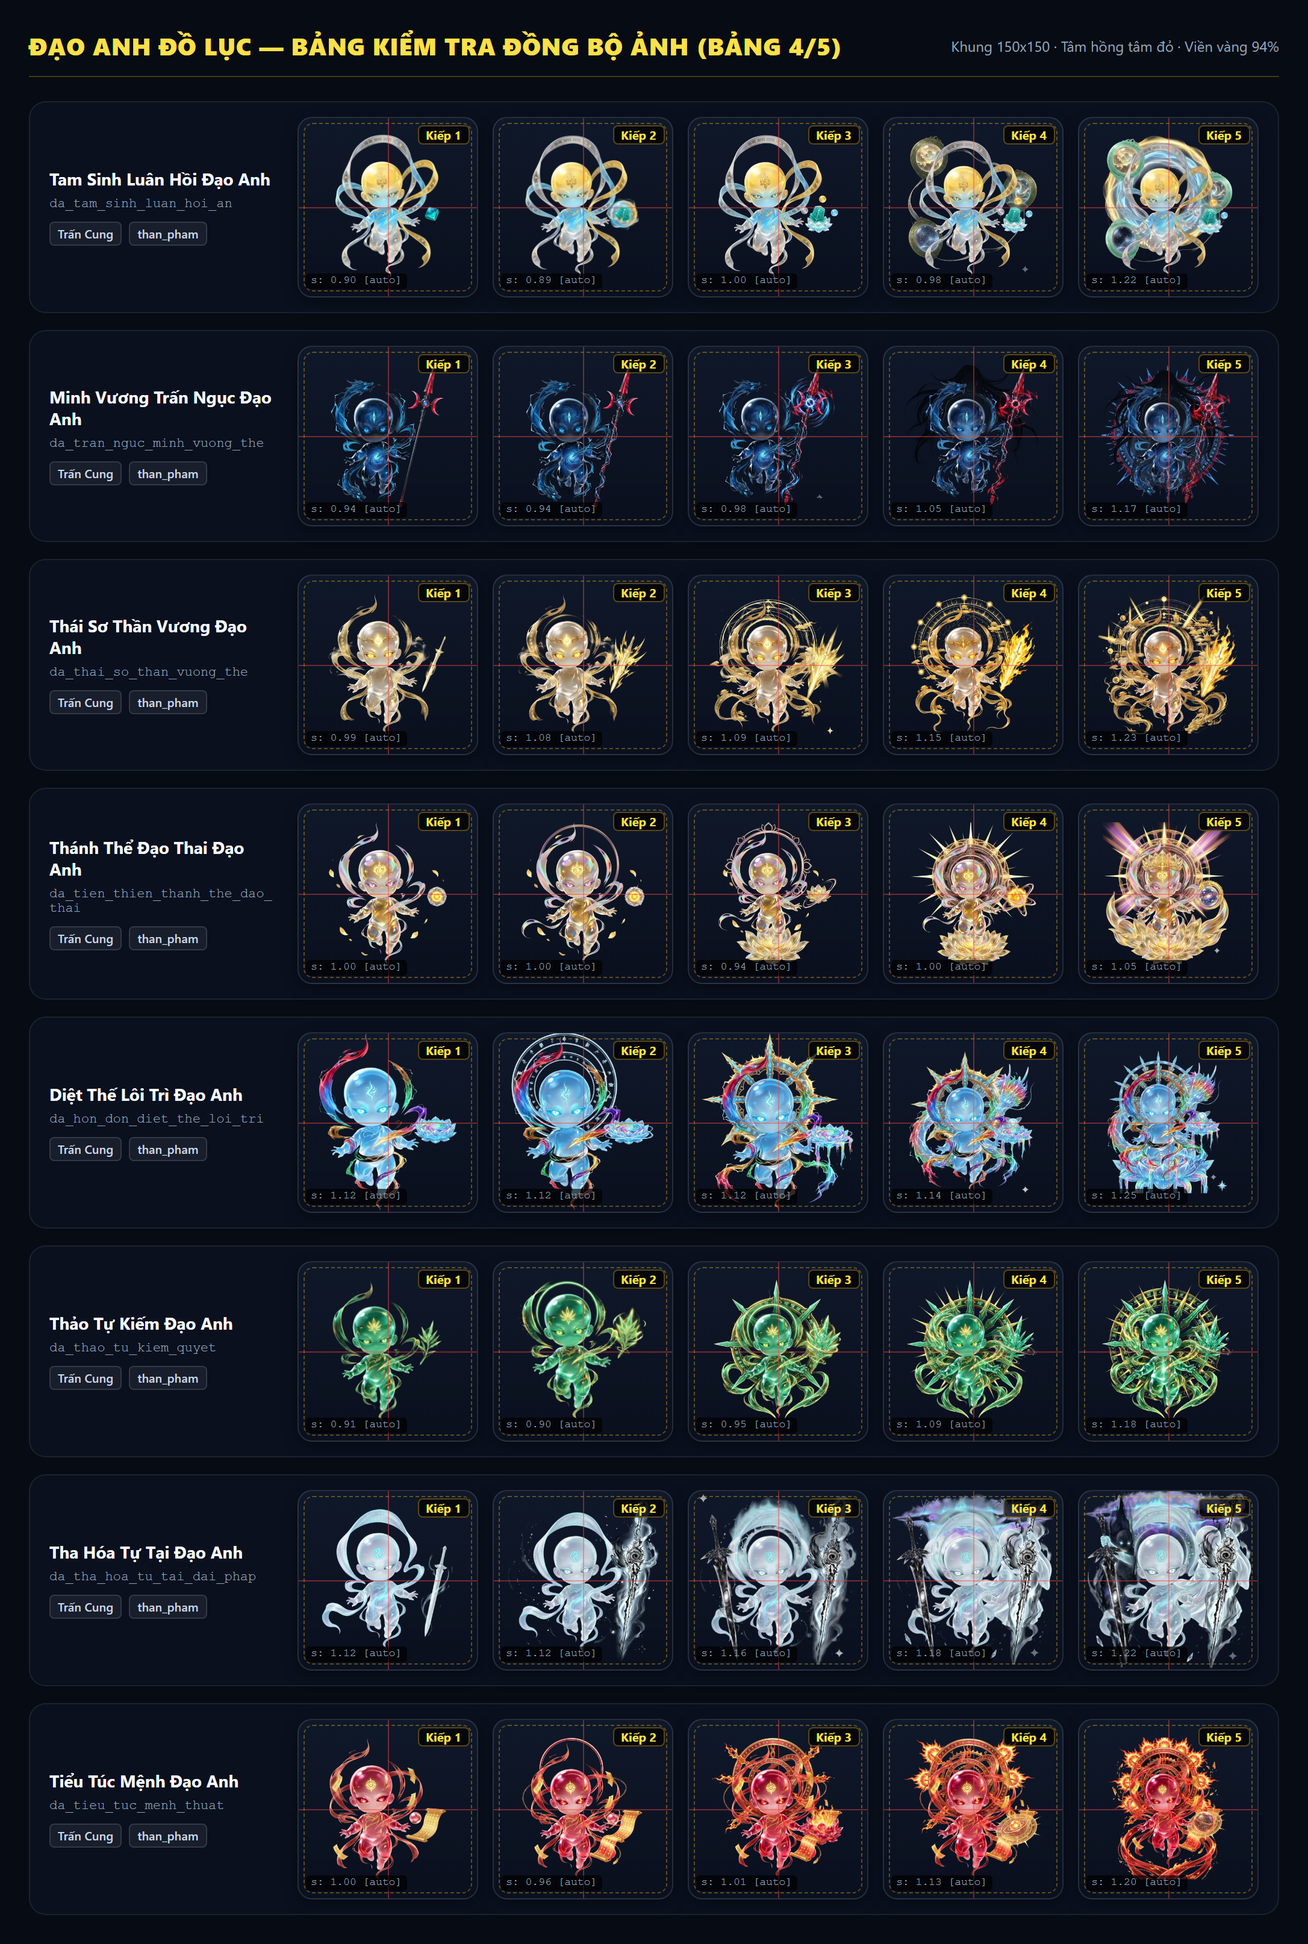
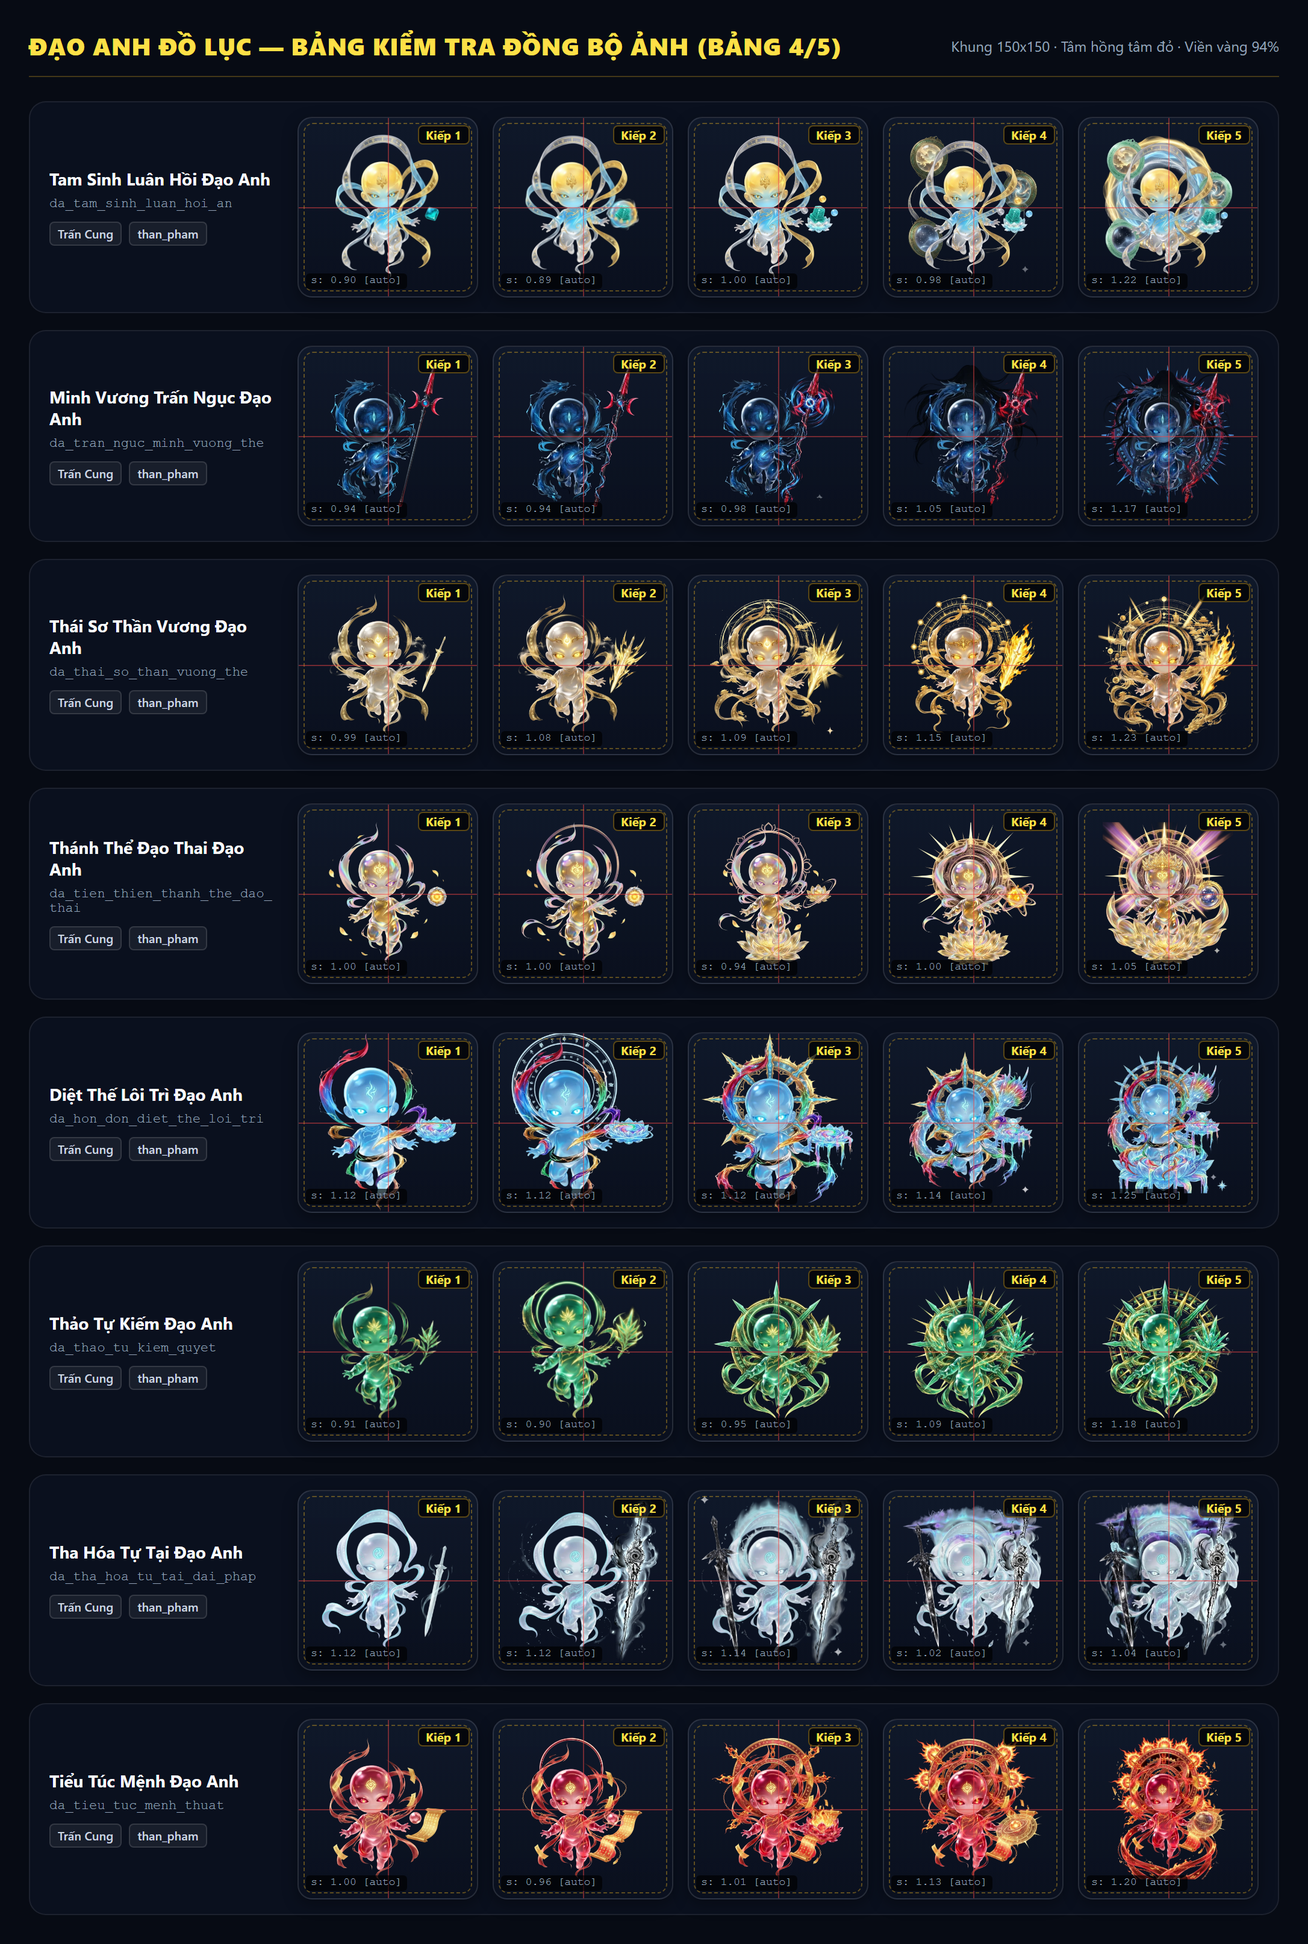
fix(cultivation): replace Khoi Nguyen Thoi Khong K4-K5 assets and finalize sizing for Tam Thu Dao, Toi Cao Thien Menh, Tha Hoa Tu Tai
- Replace Khoi Nguyen Thoi Khong K4-K5 across PNG, WebP full, and WebP thumb with seamless transparent cutouts
- Recompute BBox in daoAnhBBox.generated.js
- Tune Tam Thu Dao K5 scale to 1.02 to avoid flame aura overflow and match K4
- Tune Toi Cao Thien Menh K2 (s=1.05, dy=3%) to prevent top aura clipping
- Tune Tha Hoa Tu Tai K4 (1.02) & K5 (1.04) to prevent weapon clipping
- Balance Khoi Nguyen Thoi Khong K4-K5 scale (1.05) with K1-K3
- Regenerate contact sheets and update test assertions

Changed region(s): [[0.8329, 0.7435, 0.9563, 0.8674], [0.6786, 0.7435, 0.802, 0.8674], [0.5244, 0.7745, 0.6478, 0.8674]]

diff --git a/src/lib/daoAnhData.js b/src/lib/daoAnhData.js
@@ -2390,13 +2390,17 @@ export const DAO_ANH_CORE_TUNE_OVERRIDES = {
   da_cam_ky_cuc_dao:          { 1: 1.18, 2: 1.18, 3: 1.18, 4: 1.56, 5: 1.48 },
   cam_ky_cuc_dao:             { 1: 1.18, 2: 1.18, 3: 1.18, 4: 1.56, 5: 1.48 },
 
-  // Tối Cao Thiên Mệnh: Cột hào quang và kiếm trận vàng xòe cao; nâng để đầu/thân cân bằng
-  da_toi_cao_thien_menh:      { 1: 1.15, 2: 1.15, 3: 1.18, 4: 1.35, 5: 1.35 },
-  toi_cao_thien_menh:         { 1: 1.15, 2: 1.15, 3: 1.18, 4: 1.35, 5: 1.35 },
+  // Tối Cao Thiên Mệnh: Cột hào quang và kiếm trận vàng xòe cao; K2 hạ nhẹ và dịch dy=3% để chóp không bị cắt
+  da_toi_cao_thien_menh:      { 1: 1.15, 2: { scale: 1.05, dy: 3 }, 3: 1.18, 4: 1.35, 5: 1.35 },
+  toi_cao_thien_menh:         { 1: 1.15, 2: { scale: 1.05, dy: 3 }, 3: 1.18, 4: 1.35, 5: 1.35 },
 
   // Thượng Thương Hắc Huyết: Cánh máu và kiếm huyết rực cháy bao quanh; nâng K3-K5 để nhân vật oai vệ
   da_thuong_thuong_hac_huyet: { 1: 1.18, 2: 1.15, 3: 1.25, 4: 1.35, 5: 1.40 },
   thuong_thuong_hac_huyet:    { 1: 1.18, 2: 1.15, 3: 1.25, 4: 1.35, 5: 1.40 },
+
+  // Khởi Nguyên Thời Không: Cân bằng kích thước đầu và thân K4-K5 đồng đều với K1-K3 sau khi thay ảnh mới
+  da_khoi_nguyen_thoi_khong:  { 4: 1.05, 5: 1.05 },
+  khoi_nguyen_thoi_khong:     { 4: 1.05, 5: 1.05 },
 
   // 2. Các Đạo Ảnh có hào quang / hiệu ứng bao quanh lớn khác đã được kiểm chứng hình ảnh thực tế:
   da_hong_mong_bat_diet:      { 4: 1.15, 5: 1.18 },
@@ -2408,11 +2412,13 @@ export const DAO_ANH_CORE_TUNE_OVERRIDES = {
   da_kim_o_luyen_van_linh:    { 1: 1.16, 2: 1.16, 3: 1.16, 4: 1.20, 5: 1.20 },
   kim_o_luyen_van_linh:       { 1: 1.16, 2: 1.16, 3: 1.16, 4: 1.20, 5: 1.20 },
 
-  da_tha_hoa_tu_tai_dai_phap: { 2: 1.12, 3: 1.16, 4: 1.18, 5: 1.22 },
-  tha_hoa_tu_tai_dai_phap:    { 2: 1.12, 3: 1.16, 4: 1.18, 5: 1.22 },
+  // Tha Hóa Tự Tại: K4-K5 hạ nhẹ để cánh kiếm khí và cự kiếm không bị cắt bởi overflow: hidden
+  da_tha_hoa_tu_tai_dai_phap: { 2: 1.12, 3: 1.14, 4: 1.02, 5: 1.04 },
+  tha_hoa_tu_tai_dai_phap:    { 2: 1.12, 3: 1.14, 4: 1.02, 5: 1.04 },
 
-  da_tam_thu_dao:             { 5: 1.18 },
-  tam_thu_dao:                { 5: 1.18 },
+  // Tam Thu Đao: K5 hạ về 1.02 để hiệu ứng đao lửa không tràn khung, đầu/thân tương đồng K4
+  da_tam_thu_dao:             { 5: 1.02 },
+  tam_thu_dao:                { 5: 1.02 },
 
   da_tan_tien_phe_than:       { 1: 1.12, 2: 1.12, 3: 1.12 },
   tan_tien_phe_than:          { 1: 1.12, 2: 1.12, 3: 1.12 },
@@ -2521,22 +2527,32 @@ export function getDaoAnhTransformConfig(daoAnhDef, currentKiep = 1, options = {
     let rawScale = target / maxDim;
     rawScale = Math.min(rawScale, FIT_MAX / maxDim);
 
+    let dxOffset = 0;
+    let dyOffset = 0;
+
     // Ưu tiên cân bằng kích thước nhân vật chính (Head / Body):
     // Nếu ảnh này có cấu hình hiệu chỉnh riêng có kiểm soát (do hiệu ứng/hào quang bao quanh lớn làm teo tóp thân),
     // áp dụng scale hiệu chỉnh để nhân vật chính cân xứng với các Đạo Ảnh khác (như Đế Kiếm).
     if (forceAuto && options?.fit !== 'contain') {
       const coreTune = DAO_ANH_CORE_TUNE_OVERRIDES[id] || DAO_ANH_CORE_TUNE_OVERRIDES[sourceId] || DAO_ANH_CORE_TUNE_OVERRIDES[cleanId] || DAO_ANH_CORE_TUNE_OVERRIDES[daId];
-      if (coreTune && typeof coreTune[currentKiep] === 'number') {
-        rawScale = coreTune[currentKiep];
+      if (coreTune && coreTune[currentKiep] !== undefined) {
+        const kTune = coreTune[currentKiep];
+        if (typeof kTune === 'number') {
+          rawScale = kTune;
+        } else if (typeof kTune === 'object' && kTune !== null) {
+          if (typeof kTune.scale === 'number') rawScale = kTune.scale;
+          if (typeof kTune.dx === 'number') dxOffset = kTune.dx;
+          if (typeof kTune.dy === 'number') dyOffset = kTune.dy;
+        }
       }
     }
 
     const scale = Math.min(Math.max(rawScale, minScale), maxScale);
     const roundedScale = Math.round(scale * 100) / 100;
 
-    // Căn giữa vùng nội dung nhân vật: Dịch theo % của phần tử: tx = (0.5 - bb.cx) * scale * 100 (%)
-    const tx = (0.5 - bb.cx) * scale * 100;
-    const ty = (0.5 - bb.cy) * scale * 100;
+    // Căn giữa vùng nội dung nhân vật có kèm bù trừ vi chỉnh (dx, dy):
+    const tx = (0.5 - bb.cx) * scale * 100 + dxOffset;
+    const ty = (0.5 - bb.cy) * scale * 100 + dyOffset;
     const roundedTx = Math.round(tx * 10) / 10;
     const roundedTy = Math.round(ty * 10) / 10;
 
@@ -2546,6 +2562,8 @@ export function getDaoAnhTransformConfig(daoAnhDef, currentKiep = 1, options = {
       y: roundedTy,
       tx: roundedTx,
       ty: roundedTy,
+      dxOffset,
+      dyOffset,
       isAuto: true,
       unit: '%',
     };
@@ -2603,8 +2621,8 @@ export function getDaoAnhSvgTransform(daoAnhDef, currentKiep = 1, options = {}) 
           : 1.0);
 
     const sc = clampedSc * boost;
-    const x = -sc * (bb.cx - 0.5) * box;
-    const y = offsetY - sc * ((bb.cy - 0.5) * box + offsetY);
+    const x = -sc * (bb.cx - 0.5) * box + (cfg.dxOffset || 0) * (box / 100);
+    const y = offsetY - sc * ((bb.cy - 0.5) * box + offsetY) + (cfg.dyOffset || 0) * (box / 100);
 
     const roundedSc = Math.round(sc * 100) / 100;
     const roundedX = Math.round(x * 10) / 10;

diff --git a/scripts/test-daoanh-auto-transform.js b/scripts/test-daoanh-auto-transform.js
@@ -139,8 +139,29 @@ assert.strictEqual(camKyK5.scale, 1.48, 'Cấm Kỵ Cực Đạo K5 phải có s
 const thienMenhK1 = getDaoAnhTransformConfig('da_toi_cao_thien_menh', 1);
 assert.strictEqual(thienMenhK1.scale, 1.15, 'Tối Cao Thiên Mệnh K1 phải có scale hiệu chỉnh 1.15');
 
+const thienMenhK2 = getDaoAnhTransformConfig('da_toi_cao_thien_menh', 2);
+assert.strictEqual(thienMenhK2.scale, 1.05, 'Tối Cao Thiên Mệnh K2 phải có scale hiệu chỉnh 1.05');
+assert.strictEqual(thienMenhK2.dyOffset, 3, 'Tối Cao Thiên Mệnh K2 phải có dyOffset === 3 để chóp không bị cắt');
+
 const hacHuyetK5 = getDaoAnhTransformConfig('da_thuong_thuong_hac_huyet', 5);
 assert.strictEqual(hacHuyetK5.scale, 1.40, 'Thượng Thương Hắc Huyết K5 phải có scale hiệu chỉnh 1.40');
+
+// Kiểm tra 3 trường hợp hoàn thiện kích thước theo yêu cầu:
+const tamThuDaoK5 = getDaoAnhTransformConfig('da_tam_thu_dao', 5);
+assert.strictEqual(tamThuDaoK5.scale, 1.02, 'Tam Thu Đao K5 phải có scale 1.02 để đao lửa không tràn khung, đầu/thân đồng đều K4');
+
+const thaHoaK4 = getDaoAnhTransformConfig('da_tha_hoa_tu_tai_dai_phap', 4);
+assert.strictEqual(thaHoaK4.scale, 1.02, 'Tha Hóa Tự Tại K4 phải có scale 1.02 để cánh kiếm không bị cắt');
+
+const thaHoaK5 = getDaoAnhTransformConfig('da_tha_hoa_tu_tai_dai_phap', 5);
+assert.strictEqual(thaHoaK5.scale, 1.04, 'Tha Hóa Tự Tại K5 phải có scale 1.04 để hiệu ứng không bị cắt');
+
+// Kiểm tra Khởi Nguyên Thời Không K4-K5 sau khi thay ảnh mới
+const khoiNguyenK4 = getDaoAnhTransformConfig('da_khoi_nguyen_thoi_khong', 4);
+assert.strictEqual(khoiNguyenK4.scale, 1.05, 'Khởi Nguyên Thời Không K4 phải có scale 1.05');
+
+const khoiNguyenK5 = getDaoAnhTransformConfig('da_khoi_nguyen_thoi_khong', 5);
+assert.strictEqual(khoiNguyenK5.scale, 1.05, 'Khởi Nguyên Thời Không K5 phải có scale 1.05');
 
 let totalUniformChecked = 0;
 const allScales = [];

diff --git a/src/lib/daoAnhBBox.generated.js b/src/lib/daoAnhBBox.generated.js
@@ -91,8 +91,8 @@ export const DAO_ANH_BBOX = {
   'khoi_nguyen_thoi_khong': { cx: 0.5637, cy: 0.4868, w: 0.8075, h: 0.9092, m: 0.2551 },
   'khoi_nguyen_thoi_khong_k2': { cx: 0.5011, cy: 0.4888, w: 0.7744, h: 0.8643, m: 0.2656 },
   'khoi_nguyen_thoi_khong_k3': { cx: 0.4707, cy: 0.4883, w: 0.6133, h: 0.8656, m: 0.2464 },
-  'khoi_nguyen_thoi_khong_k4': { cx: 0.4814, cy: 0.5013, w: 0.5801, h: 0.9524, m: 0.356 },
-  'khoi_nguyen_thoi_khong_k5': { cx: 0.5083, cy: 0.5006, w: 0.5518, h: 0.9028, m: 0.3198 },
+  'khoi_nguyen_thoi_khong_k4': { cx: 0.5049, cy: 0.4912, w: 0.9072, h: 0.9219, m: 0.4921 },
+  'khoi_nguyen_thoi_khong_k5': { cx: 0.5073, cy: 0.4897, w: 0.8974, h: 0.9424, m: 0.524 },
   'kim_o_luyen_van_linh': { cx: 0.5366, cy: 0.4868, w: 0.7412, h: 0.8799, m: 0.1729 },
   'kim_o_luyen_van_linh_k2': { cx: 0.5371, cy: 0.4868, w: 0.7402, h: 0.8799, m: 0.1907 },
   'kim_o_luyen_van_linh_k3': { cx: 0.5488, cy: 0.4873, w: 0.7363, h: 0.8789, m: 0.2157 },

diff --git a/docs/dao-anh-fit-report.md b/docs/dao-anh-fit-report.md
@@ -1,6 +1,6 @@
 # Báo Cáo Nhất Quán Hiển Thị Đạo Ảnh (Dao Anh Fit Report)
 
-*Thời gian tạo:* 2026-11-22T11:49:44.837Z
+*Thời gian tạo:* 2026-11-22T12:25:33.126Z
 *Tổng số Đạo Ảnh:* 42 mục (210 ảnh qua 5 kiếp)
 
 ## 1. Tổng Kết Các Cờ Cảnh Báo
@@ -9,8 +9,8 @@
 | :--- | :--- | :--- |
 | **LỆCH** | Tâm lệch \|dx\| > 6% hoặc \|dy\| > 6% so với tâm khung | 0 |
 | **NHỎ** | Kích thước tối đa max(w', h') < 0.55 chiều khung | 0 |
-| **LỚN** | Kích thước tối đa max(w', h') > 0.96 (nguy cơ tràn) | 20 |
-| **NHẢY KIẾP** | Kích thước giữa 2 kiếp liền kề chênh > 18% | 7 |
+| **LỚN** | Kích thước tối đa max(w', h') > 0.96 (nguy cơ tràn) | 17 |
+| **NHẢY KIẾP** | Kích thước giữa 2 kiếp liền kề chênh > 18% | 6 |
 
 ## 2. Top 15 Ảnh Có Độ Sai Lệch Cao Nhất
 
@@ -20,17 +20,17 @@
 | 2 | **Cửu Chuyển Luân Hồi Đạo Anh** (`da_cuu_chuyen_luan_hoi`) | K5 | 1.35 | dx: -0.0%, dy: 0.0% | 0.809 x 1.150 | Tự động (BBox) | LỚN |
 | 3 | **Thượng Thương Hắc Huyết Đạo Anh** (`da_thuong_thuong_hac_huyet`) | K5 | 1.40 | dx: -0.0%, dy: -0.0% | 0.658 x 1.135 | Tự động (BBox) | LỚN |
 | 4 | **Thượng Thương Hắc Huyết Đạo Anh** (`da_thuong_thuong_hac_huyet`) | K4 | 1.35 | dx: 0.0%, dy: 0.0% | 0.729 x 1.093 | Tự động (BBox) | LỚN |
-| 5 | **Tam Thu Đao Đạo Anh** (`da_tam_thu_dao`) | K5 | 1.18 | dx: 0.0%, dy: 0.0% | 1.063 x 1.063 | Tự động (BBox) | LỚN, NHẢY KIẾP (34%) |
-| 6 | **Túc Mệnh Nhân Quả Đạo Anh** (`da_tuc_menh_nhan_qua`) | K5 | 1.20 | dx: -0.0%, dy: 0.0% | 0.697 x 1.050 | Tự động (BBox) | LỚN |
-| 7 | **Tha Hóa Tự Tại Đạo Anh** (`da_tha_hoa_tu_tai_dai_phap`) | K5 | 1.22 | dx: -0.0%, dy: 0.0% | 0.952 x 1.039 | Tự động (BBox) | LỚN |
-| 8 | **Tối Cao Thiên Mệnh Đạo Anh** (`da_toi_cao_thien_menh`) | K2 | 1.15 | dx: -0.0%, dy: -0.0% | 0.866 x 1.035 | Tự động (BBox) | LỚN |
-| 9 | **Hồng Mông Bất Diệt Đạo Anh** (`da_hong_mong_bat_diet`) | K5 | 1.18 | dx: -0.0%, dy: 0.0% | 0.937 x 1.033 | Tự động (BBox) | LỚN |
-| 10 | **Tối Cao Thiên Mệnh Đạo Anh** (`da_toi_cao_thien_menh`) | K1 | 1.15 | dx: 0.0%, dy: -0.0% | 0.782 x 1.025 | Tự động (BBox) | LỚN |
-| 11 | **Túc Mệnh Nhân Quả Đạo Anh** (`da_tuc_menh_nhan_qua`) | K4 | 1.18 | dx: -0.0%, dy: 0.0% | 0.913 x 1.008 | Tự động (BBox) | LỚN, NHẢY KIẾP (27%) |
-| 12 | **Diệt Thế Lôi Trì Đạo Anh** (`da_hon_don_diet_the_loi_tri`) | K2 | 1.12 | dx: 0.0%, dy: 0.0% | 0.797 x 1.004 | Tự động (BBox) | LỚN |
-| 13 | **Tàn Tiên Phệ Thần Đạo Anh** (`da_tan_tien_phe_than`) | K3 | 1.12 | dx: 0.0%, dy: 0.0% | 0.819 x 1.003 | Tự động (BBox) | LỚN |
-| 14 | **Diệt Thế Lôi Trì Đạo Anh** (`da_hon_don_diet_the_loi_tri`) | K1 | 1.12 | dx: 0.0%, dy: -0.0% | 0.781 x 1.003 | Tự động (BBox) | LỚN |
-| 15 | **Diệt Thế Lôi Trì Đạo Anh** (`da_hon_don_diet_the_loi_tri`) | K3 | 1.12 | dx: -0.0%, dy: 0.0% | 0.850 x 1.002 | Tự động (BBox) | LỚN |
+| 5 | **Túc Mệnh Nhân Quả Đạo Anh** (`da_tuc_menh_nhan_qua`) | K5 | 1.20 | dx: -0.0%, dy: 0.0% | 0.697 x 1.050 | Tự động (BBox) | LỚN |
+| 6 | **Hồng Mông Bất Diệt Đạo Anh** (`da_hong_mong_bat_diet`) | K5 | 1.18 | dx: -0.0%, dy: 0.0% | 0.937 x 1.033 | Tự động (BBox) | LỚN |
+| 7 | **Tối Cao Thiên Mệnh Đạo Anh** (`da_toi_cao_thien_menh`) | K1 | 1.15 | dx: 0.0%, dy: -0.0% | 0.782 x 1.025 | Tự động (BBox) | LỚN |
+| 8 | **Túc Mệnh Nhân Quả Đạo Anh** (`da_tuc_menh_nhan_qua`) | K4 | 1.18 | dx: -0.0%, dy: 0.0% | 0.913 x 1.008 | Tự động (BBox) | LỚN, NHẢY KIẾP (27%) |
+| 9 | **Diệt Thế Lôi Trì Đạo Anh** (`da_hon_don_diet_the_loi_tri`) | K2 | 1.12 | dx: 0.0%, dy: 0.0% | 0.797 x 1.004 | Tự động (BBox) | LỚN |
+| 10 | **Tàn Tiên Phệ Thần Đạo Anh** (`da_tan_tien_phe_than`) | K3 | 1.12 | dx: 0.0%, dy: 0.0% | 0.819 x 1.003 | Tự động (BBox) | LỚN |
+| 11 | **Diệt Thế Lôi Trì Đạo Anh** (`da_hon_don_diet_the_loi_tri`) | K1 | 1.12 | dx: 0.0%, dy: -0.0% | 0.781 x 1.003 | Tự động (BBox) | LỚN |
+| 12 | **Diệt Thế Lôi Trì Đạo Anh** (`da_hon_don_diet_the_loi_tri`) | K3 | 1.12 | dx: -0.0%, dy: 0.0% | 0.850 x 1.002 | Tự động (BBox) | LỚN |
+| 13 | **Thượng Thương Hắc Huyết Đạo Anh** (`da_thuong_thuong_hac_huyet`) | K2 | 1.15 | dx: 0.0%, dy: -0.0% | 0.998 x 0.956 | Tự động (BBox) | LỚN |
+| 14 | **Thượng Thương Hắc Huyết Đạo Anh** (`da_thuong_thuong_hac_huyet`) | K3 | 1.25 | dx: -0.0%, dy: -0.0% | 0.768 x 0.985 | Tự động (BBox) | LỚN |
+| 15 | **Hồng Mông Bất Diệt Đạo Anh** (`da_hong_mong_bat_diet`) | K4 | 1.15 | dx: 0.0%, dy: 0.0% | 0.911 x 0.983 | Tự động (BBox) | LỚN, NHẢY KIẾP (23%) |
 
 ## 3. Bảng Chi Tiết Toàn Bộ 210 Ảnh
 
@@ -84,15 +84,15 @@
 | Khởi Nguyên Thời Không Đạo Anh | K1 | BBox Auto | 0.93 | 0.0% | -0.0% | 0.706 | 0.795 | ✓ Chuẩn |
 | Khởi Nguyên Thời Không Đạo Anh | K2 | BBox Auto | 0.98 | 0.0% | 0.0% | 0.713 | 0.796 | ✓ Chuẩn |
 | Khởi Nguyên Thời Không Đạo Anh | K3 | BBox Auto | 0.99 | -0.0% | 0.0% | 0.571 | 0.806 | ✓ Chuẩn |
-| Khởi Nguyên Thời Không Đạo Anh | K4 | BBox Auto | 0.91 | 0.0% | 0.0% | 0.496 | 0.815 | ✓ Chuẩn |
-| Khởi Nguyên Thời Không Đạo Anh | K5 | BBox Auto | 0.96 | -0.0% | -0.0% | 0.498 | 0.815 | ✓ Chuẩn |
+| Khởi Nguyên Thời Không Đạo Anh | K4 | BBox Auto | 1.05 | 0.0% | -0.0% | 0.895 | 0.910 | ✓ Chuẩn |
+| Khởi Nguyên Thời Không Đạo Anh | K5 | BBox Auto | 1.05 | -0.0% | 0.0% | 0.886 | 0.930 | ✓ Chuẩn |
 | Tinh Hà Dịch Đạo Đạo Anh | K1 | BBox Auto | 1.03 | 0.0% | 0.0% | 0.708 | 0.798 | ✓ Chuẩn |
 | Tinh Hà Dịch Đạo Đạo Anh | K2 | BBox Auto | 1.00 | 0.0% | 0.0% | 0.688 | 0.801 | ✓ Chuẩn |
 | Tinh Hà Dịch Đạo Đạo Anh | K3 | BBox Auto | 0.98 | -0.0% | 0.0% | 0.669 | 0.797 | ✓ Chuẩn |
 | Tinh Hà Dịch Đạo Đạo Anh | K4 | BBox Auto | 0.97 | 0.0% | -0.0% | 0.639 | 0.800 | ✓ Chuẩn |
 | Tinh Hà Dịch Đạo Đạo Anh | K5 | BBox Auto | 0.96 | 0.0% | 0.0% | 0.553 | 0.807 | ✓ Chuẩn |
 | Tối Cao Thiên Mệnh Đạo Anh | K1 | BBox Auto | 1.15 | 0.0% | -0.0% | 0.782 | 1.025 | **LỚN** |
-| Tối Cao Thiên Mệnh Đạo Anh | K2 | BBox Auto | 1.15 | -0.0% | -0.0% | 0.866 | 1.035 | **LỚN** |
+| Tối Cao Thiên Mệnh Đạo Anh | K2 | BBox Auto | 1.05 | 0.0% | 2.8% | 0.790 | 0.945 | ✓ Chuẩn |
 | Tối Cao Thiên Mệnh Đạo Anh | K3 | BBox Auto | 1.18 | 0.0% | 0.0% | 0.786 | 0.922 | ✓ Chuẩn |
 | Tối Cao Thiên Mệnh Đạo Anh | K4 | BBox Auto | 1.35 | 0.0% | 0.0% | 0.796 | 0.887 | ✓ Chuẩn |
 | Tối Cao Thiên Mệnh Đạo Anh | K5 | BBox Auto | 1.35 | -0.0% | 0.0% | 0.763 | 0.898 | ✓ Chuẩn |
@@ -198,9 +198,9 @@
 | Thảo Tự Kiếm Đạo Anh | K5 | BBox Auto | 1.18 | 0.0% | -0.0% | 0.737 | 0.797 | ✓ Chuẩn |
 | Tha Hóa Tự Tại Đạo Anh | K1 | BBox Auto | 1.12 | 0.0% | 0.0% | 0.733 | 0.793 | ✓ Chuẩn |
 | Tha Hóa Tự Tại Đạo Anh | K2 | BBox Auto | 1.12 | 0.0% | -0.0% | 0.854 | 0.908 | ✓ Chuẩn |
-| Tha Hóa Tự Tại Đạo Anh | K3 | BBox Auto | 1.16 | 0.0% | -0.0% | 0.888 | 0.959 | ✓ Chuẩn |
-| Tha Hóa Tự Tại Đạo Anh | K4 | BBox Auto | 1.18 | -0.0% | 0.0% | 0.901 | 0.958 | ✓ Chuẩn |
-| Tha Hóa Tự Tại Đạo Anh | K5 | BBox Auto | 1.22 | -0.0% | 0.0% | 0.952 | 1.039 | **LỚN** |
+| Tha Hóa Tự Tại Đạo Anh | K3 | BBox Auto | 1.14 | -0.0% | -0.0% | 0.873 | 0.943 | ✓ Chuẩn |
+| Tha Hóa Tự Tại Đạo Anh | K4 | BBox Auto | 1.02 | -0.0% | 0.0% | 0.779 | 0.828 | ✓ Chuẩn |
+| Tha Hóa Tự Tại Đạo Anh | K5 | BBox Auto | 1.04 | 0.0% | -0.0% | 0.812 | 0.886 | ✓ Chuẩn |
 | Tiểu Túc Mệnh Đạo Anh | K1 | BBox Auto | 1.00 | 0.0% | -0.1% | 0.651 | 0.800 | ✓ Chuẩn |
 | Tiểu Túc Mệnh Đạo Anh | K2 | BBox Auto | 0.96 | -0.1% | -0.1% | 0.674 | 0.796 | ✓ Chuẩn |
 | Tiểu Túc Mệnh Đạo Anh | K3 | BBox Auto | 1.01 | 0.0% | -0.0% | 0.742 | 0.793 | ✓ Chuẩn |
@@ -230,7 +230,7 @@
 | Tam Thu Đao Đạo Anh | K2 | BBox Auto | 0.88 | -0.0% | 0.0% | 0.791 | 0.729 | ✓ Chuẩn |
 | Tam Thu Đao Đạo Anh | K3 | BBox Auto | 0.88 | -0.0% | 0.0% | 0.791 | 0.748 | ✓ Chuẩn |
 | Tam Thu Đao Đạo Anh | K4 | BBox Auto | 1.23 | 0.0% | -0.0% | 0.793 | 0.788 | ✓ Chuẩn |
-| Tam Thu Đao Đạo Anh | K5 | BBox Auto | 1.18 | 0.0% | 0.0% | 1.063 | 1.063 | **LỚN, NHẢY KIẾP (34%)** |
+| Tam Thu Đao Đạo Anh | K5 | BBox Auto | 1.02 | 0.0% | 0.0% | 0.919 | 0.919 | ✓ Chuẩn |
 | Thượng Thương Hắc Huyết Đạo Anh | K1 | BBox Auto | 1.18 | -0.0% | -0.0% | 0.912 | 0.899 | ✓ Chuẩn |
 | Thượng Thương Hắc Huyết Đạo Anh | K2 | BBox Auto | 1.15 | 0.0% | -0.0% | 0.998 | 0.956 | **LỚN** |
 | Thượng Thương Hắc Huyết Đạo Anh | K3 | BBox Auto | 1.25 | -0.0% | -0.0% | 0.768 | 0.985 | **LỚN** |
